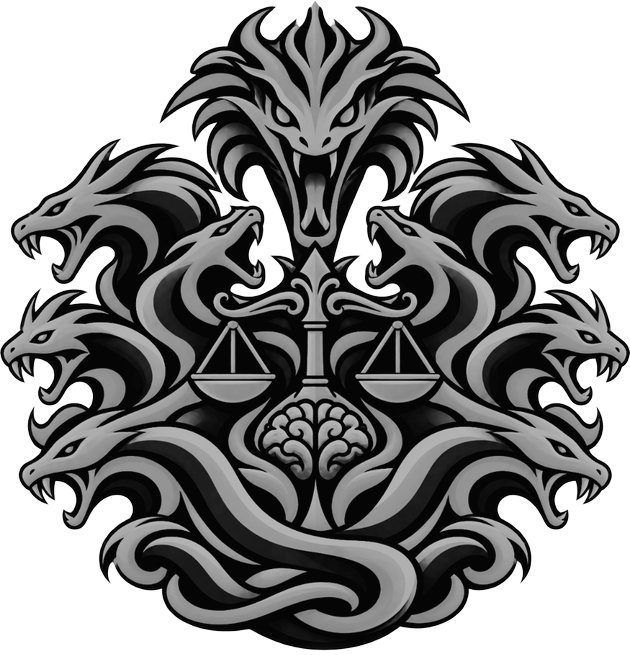
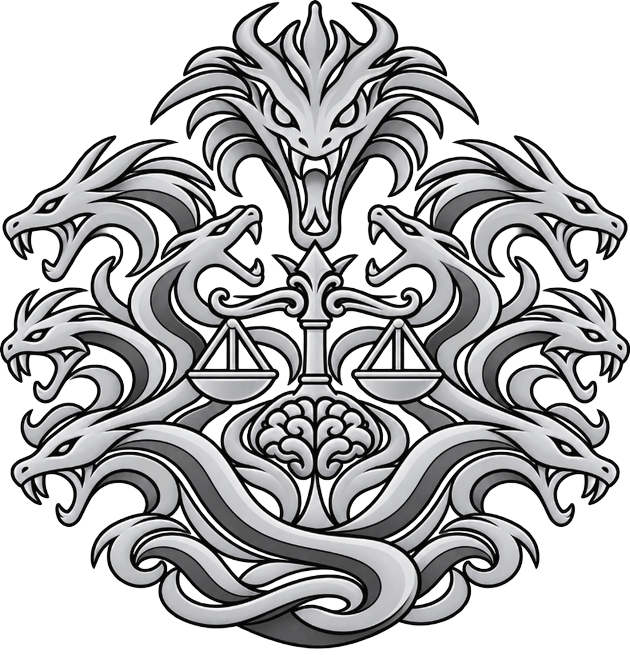
Ship Biasrex white/grey emblems matched to black UI footprint.
Wire artWhite for light theme; replace grey bake; glossary card uses full-transparent emblem.

diff --git a/ui/v2/index.html b/ui/v2/index.html
@@ -10,12 +10,14 @@
   <link rel="preconnect" href="https://fonts.googleapis.com" />
   <link rel="preconnect" href="https://fonts.gstatic.com" crossorigin />
   <link href="https://fonts.googleapis.com/css2?family=IBM+Plex+Mono:wght@300;400;500&family=IBM+Plex+Sans:wght@300;400;500;600&display=swap" rel="stylesheet" />
-  <link rel="stylesheet" href="styles.css?v=gold86" />
+  <link rel="stylesheet" href="styles.css?v=gold87" />
   <link rel="preload" as="image" href="assets/evalathan-dragon.webp?v=5" type="image/webp" />
   <link rel="preload" as="image" href="assets/hydra-logo.webp?v=5" type="image/webp" />
   <link rel="preload" as="image" href="assets/dehydrus-logo.webp?v=5" type="image/webp" />
   <link rel="preload" as="image" href="assets/benchrex-logo.webp?v=5" type="image/webp" />
-  <link rel="preload" as="image" href="assets/biasrex-logo.webp?v=6" type="image/webp" />
+  <link rel="preload" as="image" href="assets/biasrex-logo.webp?v=7" type="image/webp" />
+  <link rel="preload" as="image" href="assets/biasrex-logo-white.webp?v=7" type="image/webp" />
+  <link rel="preload" as="image" href="assets/biasrex-logo-grey.webp?v=7" type="image/webp" />
   <script>
     (function () {
       var t = localStorage.getItem("evalathan_theme");
@@ -184,6 +186,6 @@
     </div>
   </div>
 
-  <script src="app.js?v=gold86"></script>
+  <script src="app.js?v=gold87"></script>
 </body>
 </html>

diff --git a/ui/v2/app.js b/ui/v2/app.js
@@ -365,8 +365,9 @@
       wired: false,
       wordOnDark: "assets/biasrex-word-white.png?v=shade1",
       wordOnLight: "assets/biasrex-word-black.png?v=shade1",
-      art: "assets/biasrex-logo.webp?v=6",
-      artGrey: "assets/biasrex-logo-grey.webp?v=6",
+      art: "assets/biasrex-logo.webp?v=7",
+      artGrey: "assets/biasrex-logo-grey.webp?v=7",
+      artWhite: "assets/biasrex-logo-white.webp?v=7",
       blurbs:
         "Biasrex engine conducts 6 bias cells (not wired in currently).\nFilterly, Meaningly, Hastely, and Memoryly map the Codex four problems.\nConfirmly and Automately add confirmation and automation trust gates.",
       evalers: [
@@ -745,6 +746,7 @@
 
   function artSrc(view) {
     if (theme() === "grey" && view.artGrey) return view.artGrey;
+    if (theme() === "white" && view.artWhite) return view.artWhite;
     return view.art || null;
   }
 
@@ -761,6 +763,7 @@
     ENGINES.forEach((e) => {
       push(e.art);
       push(e.artGrey);
+      push(e.artWhite);
     });
     return urls;
   }

diff --git a/scripts/_bake_biasrex_logo.py b/scripts/_bake_biasrex_logo.py
@@ -1,56 +1,56 @@
-"""One-shot: bake Biasrex emblem into glossary card + UI logo assets."""
+"""Bake Biasrex emblem into glossary card + UI logo assets (black / white / grey)."""
 from pathlib import Path
 
-from PIL import Image, ImageOps
+from PIL import Image
 
-SRC = Path(
-    r"C:\Users\admin\.cursor\projects\c-Users-admin-Desktop-Altnoble-Clients-AckmanZiff-AZ-Agent-CHARLIE-07-14-2026-az-signal-engine-main\assets\BIASREX_FINAL-b8e0e828-39cb-4d51-ad34-67737527e8ff.png"
-)
 ROOT = Path(__file__).resolve().parents[1]
+ASSETS = Path(
+    r"C:\Users\admin\.cursor\projects\c-Users-admin-Desktop-Altnoble-Clients-AckmanZiff-AZ-Agent-CHARLIE-07-14-2026-az-signal-engine-main\assets"
+)
+
+# Black UI emblem (size/placement lock). White/grey uploads must match this canvas.
+BLACK_UI = ROOT / "ui" / "v2" / "assets" / "biasrex-logo.png"
+# Full-transparent emblem for white / light backgrounds (and glossary card).
+SRC_WHITE = ASSETS / "BIASREX_full_trans_FINAL-5a2453cd-5d2d-491d-b336-32a8e3bbe07d.png"
+# Grey-theme match (same geometry as black UI).
+SRC_GREY = ASSETS / "BIASREX_GREY_MATCH-ababca29-7d11-47c2-a699-873c51da3d9a.png"
 
 
-def main() -> None:
-    # Keep interior black matte (same as Benchrex / Dehydrus emblems).
-    # Outside the circle is already transparent in the source.
-    cleaned = Image.open(SRC).convert("RGBA")
-
-    bbox = cleaned.getbbox()
-    pad = 8
-    x0, y0, x1, y1 = bbox
-    x0 = max(0, x0 - pad)
-    y0 = max(0, y0 - pad)
-    x1 = min(cleaned.width, x1 + pad)
-    y1 = min(cleaned.height, y1 + pad)
-    cropped = cleaned.crop((x0, y0, x1, y1))
-
-    target_w, target_h = 630, 655
+def fit_to_black_canvas(src: Path, target_w: int, target_h: int) -> Image.Image:
+    """Scale the full source frame into the black UI canvas; do not tight-crop alpha."""
+    im = Image.open(src).convert("RGBA")
     fitted = Image.new("RGBA", (target_w, target_h), (0, 0, 0, 0))
-    scale = min(target_w / cropped.width, target_h / cropped.height)
-    nw = int(round(cropped.width * scale))
-    nh = int(round(cropped.height * scale))
-    resized = cropped.resize((nw, nh), Image.Resampling.LANCZOS)
+    scale = min(target_w / im.width, target_h / im.height)
+    nw = int(round(im.width * scale))
+    nh = int(round(im.height * scale))
+    resized = im.resize((nw, nh), Image.Resampling.LANCZOS)
     ox = (target_w - nw) // 2
     oy = (target_h - nh) // 2
     fitted.paste(resized, (ox, oy), resized)
+    return fitted
+
+
+def main() -> None:
+    target_w, target_h = Image.open(BLACK_UI).size
+    if (target_w, target_h) != (630, 655):
+        raise SystemExit(f"unexpected black UI size {target_w}x{target_h}")
+
+    white = fit_to_black_canvas(SRC_WHITE, target_w, target_h)
+    grey = fit_to_black_canvas(SRC_GREY, target_w, target_h)
 
     card_path = ROOT / "assets" / "glossary" / "cards" / "biasrex.png"
-    ui_png = ROOT / "ui" / "v2" / "assets" / "biasrex-logo.png"
-    ui_webp = ROOT / "ui" / "v2" / "assets" / "biasrex-logo.webp"
+    white_png = ROOT / "ui" / "v2" / "assets" / "biasrex-logo-white.png"
+    white_webp = ROOT / "ui" / "v2" / "assets" / "biasrex-logo-white.webp"
     grey_png = ROOT / "ui" / "v2" / "assets" / "biasrex-logo-grey.png"
     grey_webp = ROOT / "ui" / "v2" / "assets" / "biasrex-logo-grey.webp"
 
-    fitted.save(card_path, "PNG", optimize=True)
-    fitted.save(ui_png, "PNG", optimize=True)
-    fitted.save(ui_webp, "WEBP", quality=90, method=6)
-
-    gray = ImageOps.grayscale(fitted)
-    gray = Image.eval(gray, lambda p: int(p * 0.68))
-    a = fitted.split()[-1]
-    grey = Image.merge("RGBA", (gray, gray, gray, a))
+    white.save(card_path, "PNG", optimize=True)
+    white.save(white_png, "PNG", optimize=True)
+    white.save(white_webp, "WEBP", quality=90, method=6)
     grey.save(grey_png, "PNG", optimize=True)
     grey.save(grey_webp, "WEBP", quality=90, method=6)
 
-    for p in (card_path, ui_png, ui_webp, grey_png, grey_webp):
+    for p in (card_path, white_png, white_webp, grey_png, grey_webp):
         im = Image.open(p)
         print(p.relative_to(ROOT), im.size, im.mode, p.stat().st_size)
 
